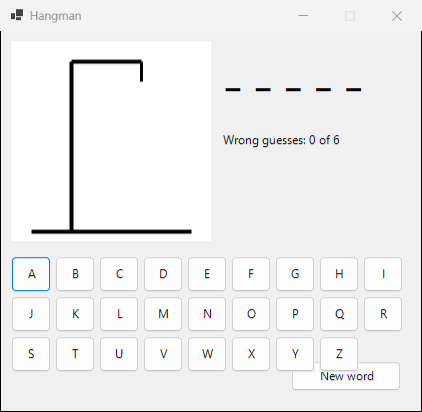
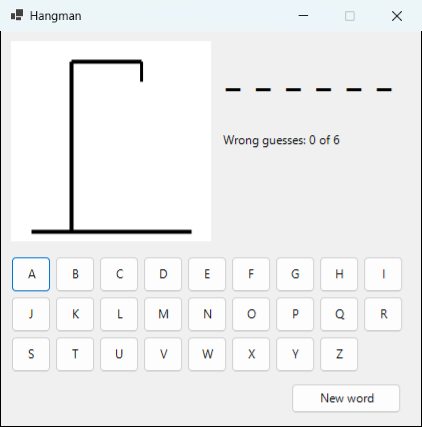
Hangman: the New word button is below the letters (it overlapped the last row); new screenshot

diff --git a/docs/gallery-apps.html b/docs/gallery-apps.html
@@ -1822,7 +1822,7 @@ nWrong = <span class="n">0</span>
 C_MAXWRONG = <span class="n">6</span>
 aLetterButtons = []
 
-oForm = <span class="f">uiForm</span>(<span class="s">"Hangman"</span>,<span class="n">420</span>,<span class="n">380</span>)
+oForm = <span class="f">uiForm</span>(<span class="s">"Hangman"</span>,<span class="n">420</span>,<span class="n">395</span>)
 oForm {
 	FormBorderStyle = <span class="s">"FixedSingle"</span>
 	MaximizeBox = <span class="k">False</span>
@@ -1837,7 +1837,7 @@ oInfo = <span class="f">uiLabel</span>(oForm,<span class="s">""</span>,<span cla
 	oButton = <span class="f">uiButton</span>(oForm,cLetter,<span class="n">10</span> + (nLetter % <span class="n">9</span>) * <span class="n">44</span>,<span class="n">225</span> + floor(nLetter / <span class="n">9</span>) * <span class="n">40</span>,<span class="n">40</span>,<span class="n">36</span>,<span class="s">"letter('"</span> + cLetter + <span class="s">"')"</span>)
 	aLetterButtons + oButton
 <span class="k">next</span>
-<span class="f">uiButton</span>(oForm,<span class="s">"New word"</span>,<span class="n">290</span>,<span class="n">330</span>,<span class="n">110</span>,<span class="n">30</span>,<span class="s">"newGame()"</span>)
+<span class="f">uiButton</span>(oForm,<span class="s">"New word"</span>,<span class="n">290</span>,<span class="n">352</span>,<span class="n">110</span>,<span class="n">30</span>,<span class="s">"newGame()"</span>)
 newGame()
 
 <span class="f">uiRun</span>(oForm)
